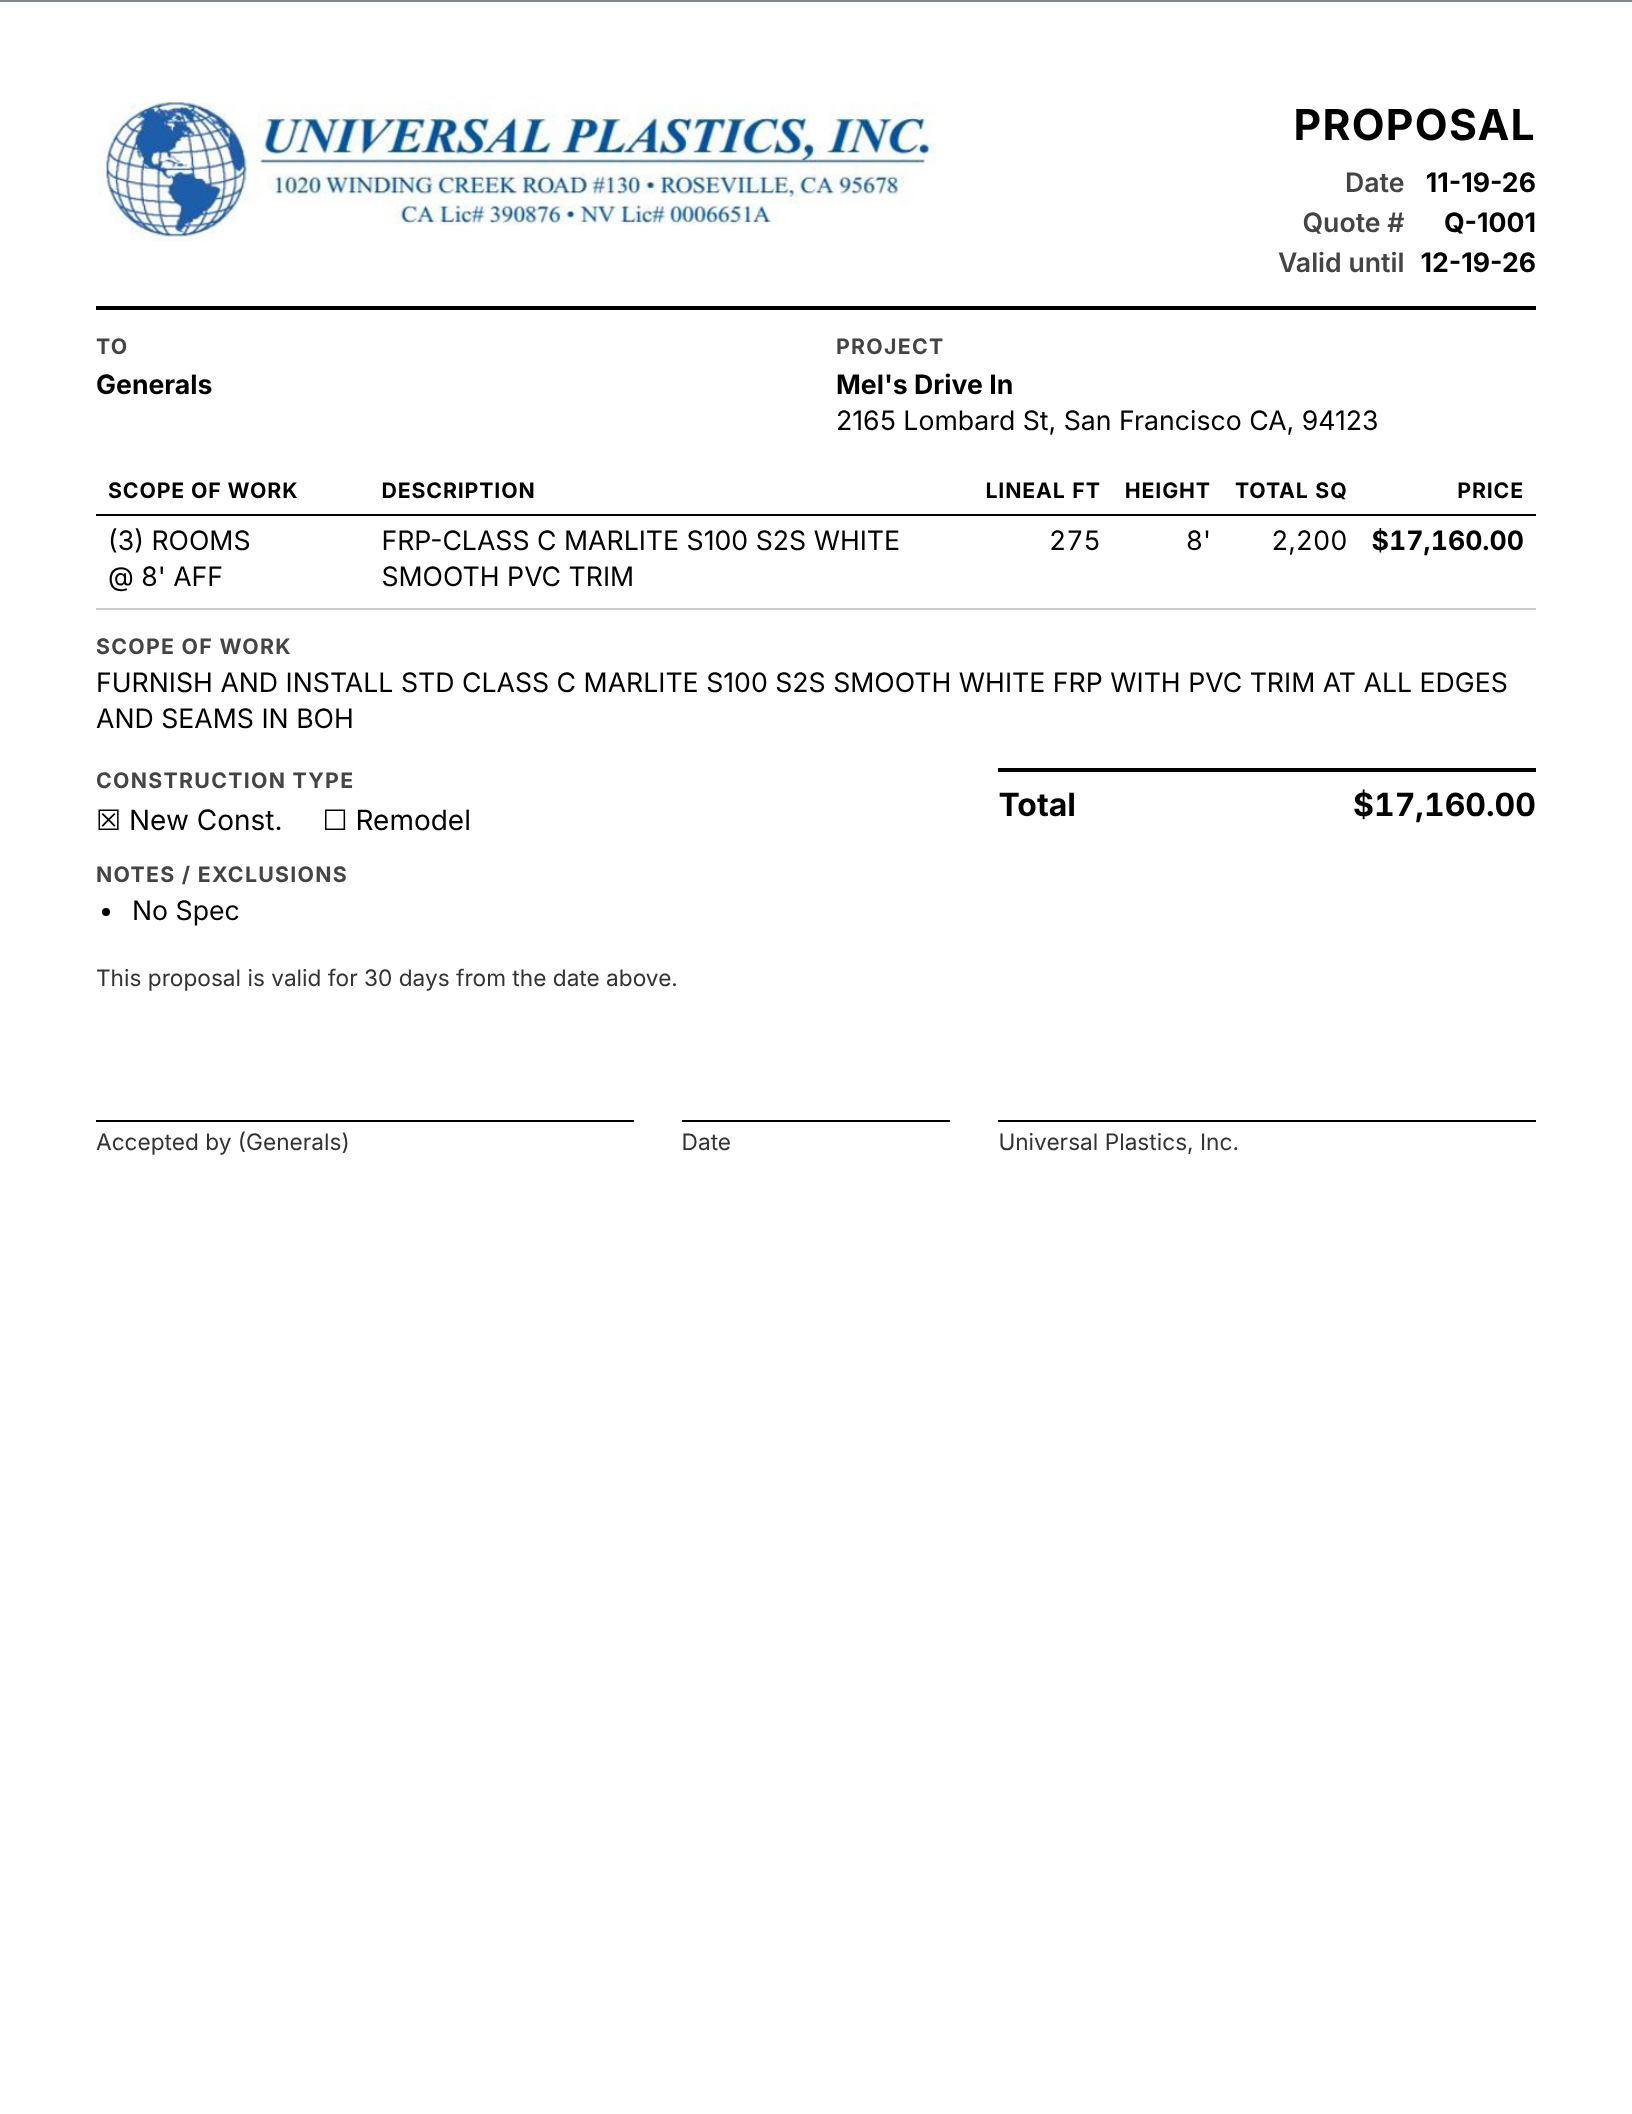
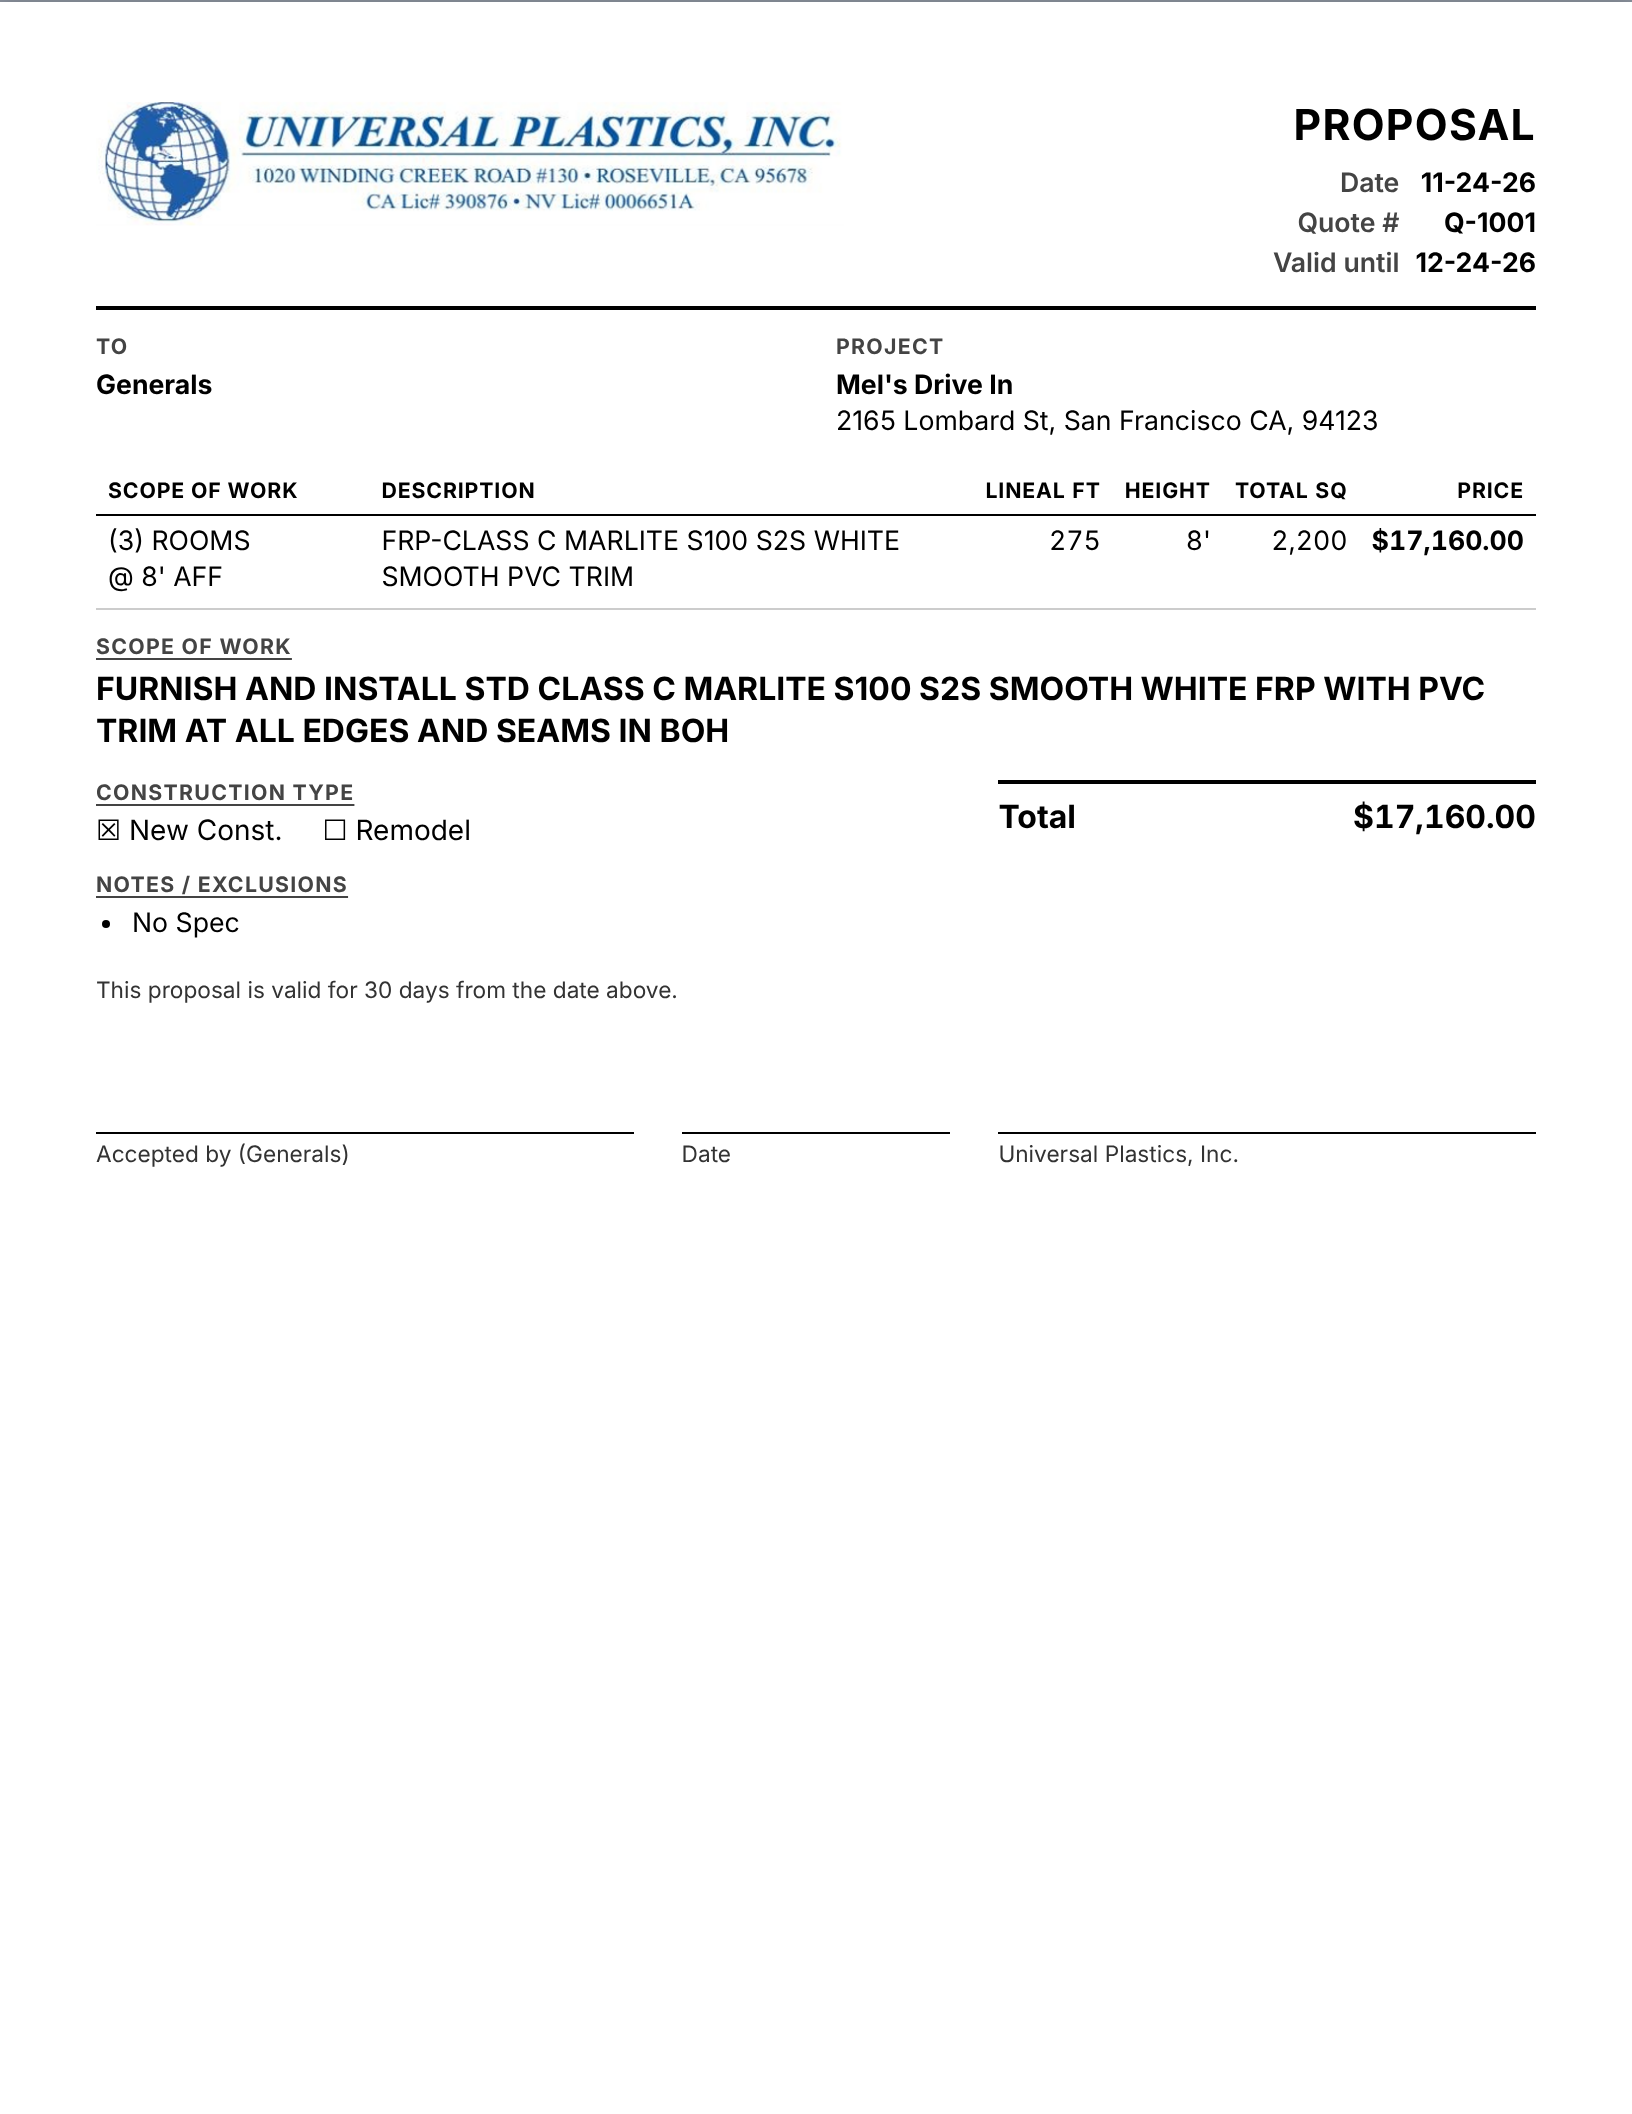
Scope of work: one box above Notes, bold like the Total line, underlined headings (#11)
Per-line scope paragraph boxes replaced by one quote-level Scope of work box above Notes / exclusions (automatic from catalog scope, editable, resettable); printed scope text 12pt bold like the Total line; Scope of work, Construction type and Notes / exclusions headings underlined; README and screenshots updated.

diff --git a/js/quote.js b/js/quote.js
@@ -177,16 +177,28 @@
     return U.formatNumber(line.qty, 2) + (line.unit !== 'sf' ? ' ' + unitLabel(line.unit) : '');
   }
 
-  function renderScopeParagraphs(lines) {
+  /** Scope text built from the lines' catalog scope paragraphs (each once, blank line between). */
+  function scopeTextAuto(priced) {
     var seen = {};
     var paras = [];
-    lines.forEach(function (l) {
+    (priced.lines || []).forEach(function (l) {
+      if (l.excluded) return;
       var s = String(l.scope || '').trim();
       if (s && !seen[s]) { seen[s] = true; paras.push(s); }
     });
-    if (!paras.length) return '';
-    return '<section class="doc-scope"><div class="doc-label">Scope of work</div>' +
-      paras.map(function (p) { return '<p>' + escMultiline(p) + '</p>'; }).join('') + '</section>';
+    return paras.join('\n\n');
+  }
+
+  /** The quote's scope of work: typed on the Quote tab (quote.scopeText), else built from the lines. */
+  function scopeText(quote, priced) {
+    return typeof quote.scopeText === 'string' ? quote.scopeText : scopeTextAuto(priced);
+  }
+
+  function renderScope(quote, priced) {
+    var text = scopeText(quote, priced).trim();
+    if (!text) return '';
+    return '<section class="doc-scope"><div class="doc-label doc-section">Scope of work</div>' +
+      text.split(/\n\s*\n/).map(function (p) { return '<p>' + escMultiline(p.trim()) + '</p>'; }).join('') + '</section>';
   }
 
   function renderFooter(quote, priced, opts) {
@@ -206,12 +218,12 @@
     return '' +
       '<section class="doc-foot">' +
         '<div class="doc-foot-left">' +
-          '<div class="doc-label">Construction type</div>' +
+          '<div class="doc-label doc-section">Construction type</div>' +
           '<div class="doc-checks">' +
             '<span>' + (ct === 'new' ? '&#9746;' : '&#9744;') + ' New Const.</span>' +
             '<span>' + (ct === 'remodel' ? '&#9746;' : '&#9744;') + ' Remodel</span>' +
           '</div>' +
-          (notes.length ? '<div class="doc-label">Notes / exclusions</div><ul class="doc-notes">' +
+          (notes.length ? '<div class="doc-label doc-section">Notes / exclusions</div><ul class="doc-notes">' +
             notes.map(function (n) { return '<li>' + esc(n) + '</li>'; }).join('') + '</ul>' : '') +
         '</div>' +
         '<table class="doc-totals">' + totalsRows + '</table>' +
@@ -286,7 +298,7 @@
           (body || '<tbody><tr><td colspan="8" class="doc-empty">No priced line items.</td></tr></tbody>') +
         '</table>' +
         '<p class="doc-rates">' + rateLine + '</p>' +
-        renderScopeParagraphs(lines) +
+        renderScope(quote, priced) +
         renderFooter(quote, priced, { split: true, lumpSum: false }) +
         renderTakeoffDetail(quote, priced) +
       '</article>';
@@ -377,7 +389,7 @@
           '<thead><tr>' + head + '</tr></thead>' +
           '<tbody>' + (body || '<tr><td colspan="' + cols + '" class="doc-empty">No line items.</td></tr>') + '</tbody>' +
         '</table>' +
-        renderScopeParagraphs(lines) +
+        renderScope(quote, priced) +
         renderFooter(quote, priced, { split: split, lumpSum: lump }) +
         (quote.validDays ? '<p class="doc-fine">This proposal is valid for ' + esc(quote.validDays) + ' days from the date above.</p>' : '') +
         '<section class="doc-sign">' +
@@ -402,6 +414,8 @@
     fromFile: fromFile,
     fileName: fileName,
     unitLabel: unitLabel,
+    scopeText: scopeText,
+    scopeTextAuto: scopeTextAuto,
     render: render,
     esc: esc
   };

diff --git a/js/app.js b/js/app.js
@@ -508,7 +508,6 @@
     var lines = state.priced.lines.filter(function (l) { return !l.excluded; });
     var lineCards = lines.map(function (l, i) {
       var ov = q.lineOverrides[l.key] || {};
-      var item = P.findCatalogItem(q.rates.catalog, l.catalogSubject) || {};
       return '<div class="card" style="background:#fafbfc">' +
         '<div class="card-head"><strong>' + esc(l.scopeLabel || l.catalogSubject) + '</strong><span class="hint">' + esc(l.catalogSubject) + ' · ' + U.formatMoney(l.total) + '</span></div>' +
         field('Scope of work', textInput('qd-label-' + i, l.scopeLabelOverridden ? l.scopeLabel : '', ' data-line="' + esc(l.key) + '" data-ov="scopeLabel" placeholder="' + esc(l.scopeLabelAuto) + '"' +
@@ -516,8 +515,6 @@
           '<span class="hint">' + (l.scopeLabelOverridden ? 'Typed by hand. Clear it to go back to the automatic label.' : 'Automatic from the Pricing tab (count, type, height, note). Type here to replace it.') + '</span>') +
         field('Material description', textInput('qd-desc-' + i, l.description, ' data-line="' + esc(l.key) + '" data-ov="description"') +
           (ov.description !== undefined ? '<button type="button" class="link small" data-act="reset-ov" data-line="' + esc(l.key) + '" data-ov="description">use catalog text</button>' : '')) +
-        field('Scope paragraph', '<textarea rows="3" id="qd-scope-' + i + '" data-line="' + esc(l.key) + '" data-ov="scope">' + esc(l.scope) + '</textarea>' +
-          (ov.scope !== undefined && ov.scope !== item.scope ? '<button type="button" class="link small" data-act="reset-ov" data-line="' + esc(l.key) + '" data-ov="scope">use catalog text</button>' : '')) +
         '</div>';
     }).join('');
 
@@ -541,6 +538,10 @@
             return '<label class="check"><input type="radio" name="ctype" id="q-ct-' + (v || 'none') + '" data-q="constructionType" value="' + v + '"' + (q.constructionType === v ? ' checked' : '') + '> ' + lbl + '</label>';
           }).join('') +
         '</div></div>' +
+        field('Scope of work', '<textarea rows="4" id="q-scope" data-q="scopeText">' + esc(Q.scopeText(q, state.priced)) + '</textarea>' +
+          '<span class="hint">' + (typeof q.scopeText === 'string'
+            ? 'Edited for this quote. <button type="button" class="link small" data-act="reset-scope">Use automatic text</button> (built from the line items\' catalog scope).'
+            : 'Built from the line items\' catalog scope. Edit freely; it prints above Construction type and Notes on both printouts.') + '</span>') +
         field('Notes / exclusions (one per line)', '<textarea rows="4" id="q-notes" data-q="notes">' + esc(q.notes) + '</textarea>') +
       '</div>' +
       '<div class="card">' +
@@ -1037,6 +1038,10 @@
         changed();
         break;
       }
+      case 'reset-scope':
+        delete q.scopeText;
+        changed();
+        break;
       case 'reset-ov': {
         var ov = q.lineOverrides[b.dataset.line];
         if (ov) { delete ov[b.dataset.ov]; if (!Object.keys(ov).length) delete q.lineOverrides[b.dataset.line]; }

diff --git a/test/tests.html b/test/tests.html
@@ -881,6 +881,28 @@
       ok(/doc-logo/.test(doc) && /1020 Winding Creek/.test(doc), 'beside layout prints the text block');
       ok(/CA Lic# 390876/.test(doc) && !/Lic\. CA Lic#/.test(doc), 'license not double-prefixed');
     });
+    test('scope of work: one quote-level text', function () {
+      var s = freshSettings();
+      s.catalog.push(Pricing.normalizeCatalogItem({ subject: 'Trim', unit: 'lf', scope: 'FURNISH AND INSTALL PVC TRIM' }));
+      s.subjectMap = { 'Trim A': 'Trim' };
+      var q = newQ(s);
+      var rows = Parse.parseCsvText("Subject,Page Index,Measurement,Install Height,Waste Sq FT.\nFRP-8',1,100,8',800\nTrim A,1,50,LF,\n").rows;
+      var pr = Pricing.price(q, rows);
+      eq(Quote.scopeTextAuto(pr), DEFAULTS.catalog[0].scope + '\n\nFURNISH AND INSTALL PVC TRIM', 'built from the lines, each once');
+      var doc = Quote.render(q, pr, s, 'proposal');
+      eq((doc.match(/<p>FURNISH AND INSTALL/g) || []).length, 2, 'two paragraphs printed');
+      ok(/<div class="doc-label doc-section">Scope of work<\/div>/.test(doc), 'Scope of work heading underlined');
+      ok(/doc-section">Construction type/.test(doc) && /doc-section">Notes \/ exclusions/.test(doc), 'Construction type and Notes headings underlined');
+      q.scopeText = 'FURNISH AND INSTALL FRP IN KITCHEN ONLY.\nOWNER TO REMOVE EXISTING TILE.';
+      doc = Quote.render(q, Pricing.price(q, rows), s, 'internal');
+      ok(/<p>FURNISH AND INSTALL FRP IN KITCHEN ONLY\.<br>OWNER TO REMOVE EXISTING TILE\.<\/p>/.test(doc), 'typed scope printed (internal too)');
+      ok(!/PVC TRIM<\/p>/.test(doc), 'automatic text replaced');
+      q.scopeText = '';
+      ok(!/class="doc-scope"/.test(Quote.render(q, Pricing.price(q, rows), s, 'proposal')), 'cleared on purpose -> no scope section');
+      delete q.scopeText;
+      q.lineOverrides[Pricing.price(q, rows).lines[0].key] = { scope: 'OLD PER-LINE SCOPE' };   // quotes saved before this change
+      ok(/OLD PER-LINE SCOPE/.test(Quote.scopeText(q, Pricing.price(q, rows))), 'older per-line scope edits still used');
+    });
     test('settings upgrade to the letterhead', function () {
       var blank = RqbStorage.normalizeSettings({ version: 2, company: { name: '', address: '', phone: '', email: '', license: '', logoDataUrl: '' } });
       eq(blank.company.logoDataUrl, 'img/universal-plastics-logo.png', 'blank company -> letterhead');

diff --git a/css/print.css b/css/print.css
@@ -38,7 +38,8 @@
 .doc-alert { border: 2px solid #b00; color: #b00; font-weight: 700; padding: 6px 8px; margin: 0 0 10px; }
 .doc-rates { font-size: 8.5pt; color: #333; margin: 4px 0 12px; }
 .doc-scope { margin: 12px 0; }
-.doc-scope p { margin: 0 0 6px; }
+.doc-scope p { margin: 0 0 6px; font-size: 12pt; font-weight: 700; line-height: 1.3; }   /* same weight as the Total line */
+.doc-label.doc-section { text-decoration: underline; text-underline-offset: 2px; }
 
 .doc-foot { display: flex; justify-content: space-between; gap: 24px; margin-top: 14px; break-inside: avoid; }
 .doc-foot-left { flex: 1; }

diff --git a/README.md b/README.md
@@ -312,7 +312,8 @@ Header and fields mirror the current sheet:
 - **Project:** name (e.g. *Mel's Drive In*) + address (e.g. *2165 Lombard St, San Francisco CA, 94123*)
 - **Line items** (up to ~15, same as the template's row blocks):
   Scope of work (e.g. `(3) ROOMS @ 8' AFF`) · Material description · Lineal Ft · Height · Total SQ · Price
-- **Scope paragraph** (from the catalog `scope`, editable)
+- **Scope of work** (one text box on the Quote tab, above Notes / exclusions). It starts as the catalog `scope` of each line item (each paragraph once) and can be edited freely; *Use automatic text* restores it. On both printouts it is printed in 12pt bold, the same as the Total line.
+- **Section headings** SCOPE OF WORK, CONSTRUCTION TYPE and NOTES / EXCLUSIONS are underlined on both printouts.
 - **Construction type:** ☐ New Const. ☐ Remodel
 - **Notes / exclusions** (e.g. "No Spec")
 - **Grand total**
